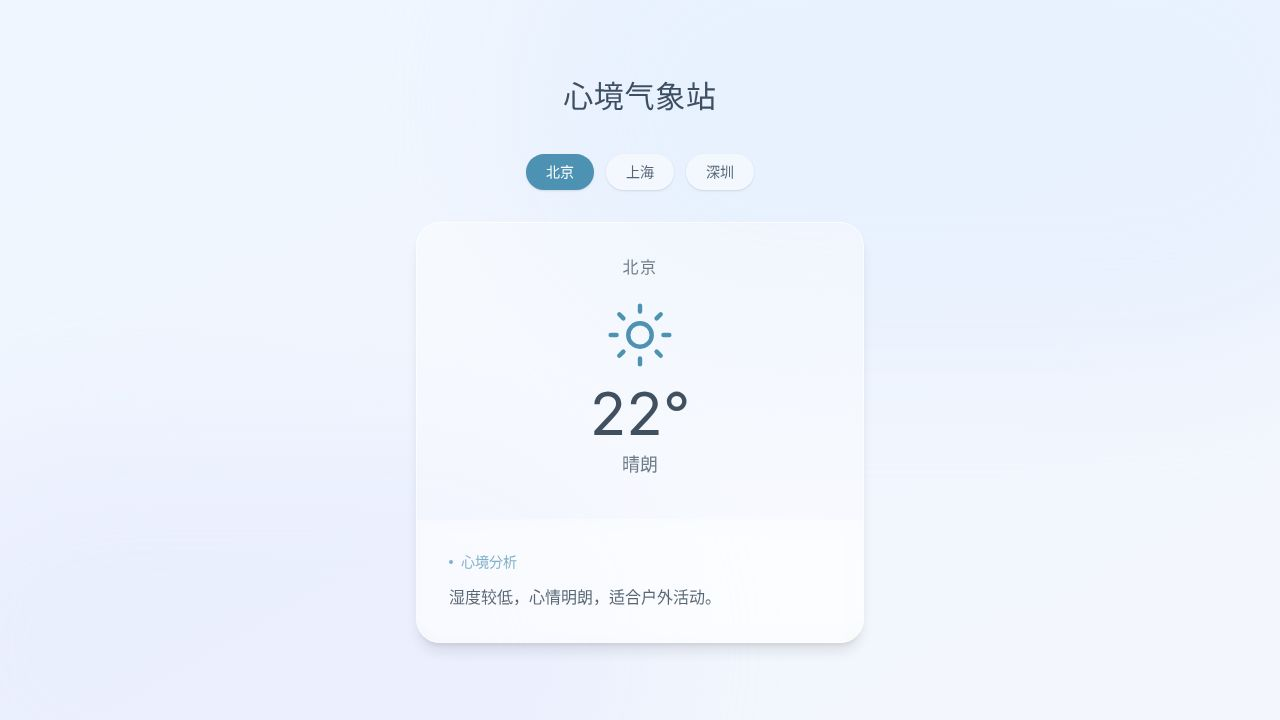
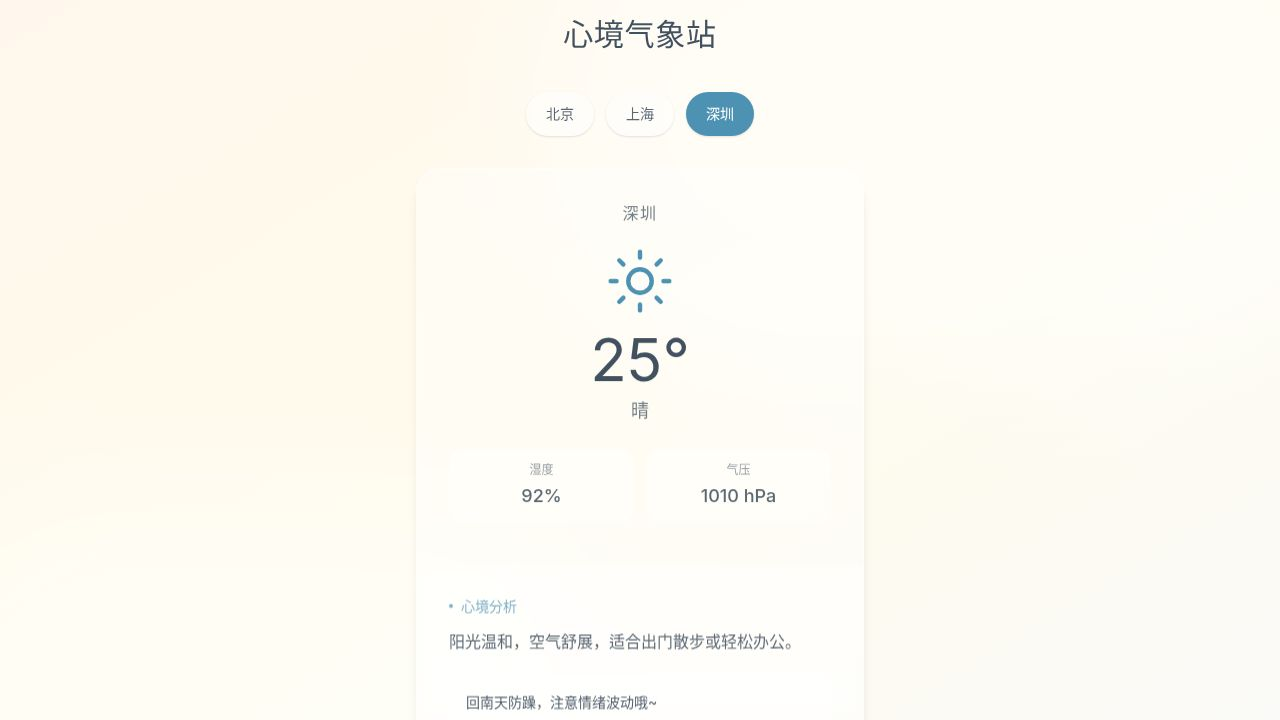
Switch weather data to use mock data for easier local development
Revert to using mock weather data within the `useWeatherData` hook, removing the need for an API key and simplifying local development setup.

Replit-Commit-Author: Agent
Replit-Commit-Session-Id: 7ee3a77c-db98-4346-819c-ddc7e0613c65
Replit-Commit-Checkpoint-Type: full_checkpoint
Replit-Commit-Event-Id: 55f4060f-d80f-4546-9be5-b9dfc7576584
Replit-Commit-Screenshot-Url: https://storage.googleapis.com/screenshot-production-us-central1/3c535aaa-1579-4e03-a277-e6fd453af44c/7ee3a77c-db98-4346-819c-ddc7e0613c65/KclJ2VK
Replit-Helium-Checkpoint-Created: true

diff --git a/artifacts/moodweather/src/hooks/useWeatherData.ts b/artifacts/moodweather/src/hooks/useWeatherData.ts
@@ -9,34 +9,32 @@ export type WeatherData = {
   moodText: string;
 };
 
-type OpenWeatherResponse = {
-  weather?: Array<{
-    main?: string;
-    description?: string;
-  }>;
-  main?: {
-    temp?: number;
-    humidity?: number;
-    pressure?: number;
-  };
-  message?: string;
+const mockWeatherData: Record<string, WeatherData> = {
+  北京: {
+    temp: 22,
+    humidity: 34,
+    pressure: 998,
+    weather: "晴",
+    description: "晴朗",
+    moodText: "湿度较低，心情明朗，适合户外活动。",
+  },
+  上海: {
+    temp: 19,
+    humidity: 78,
+    pressure: 1008,
+    weather: "雨",
+    description: "小雨",
+    moodText: "雨声轻落，适合放慢节奏，整理思绪。",
+  },
+  深圳: {
+    temp: 25,
+    humidity: 92,
+    pressure: 1010,
+    weather: "晴",
+    description: "晴",
+    moodText: "阳光温和，空气舒展，适合出门散步或轻松办公。",
+  },
 };
-
-function createMoodText(data: Pick<WeatherData, "humidity" | "pressure" | "weather">) {
-  if (data.humidity > 85) {
-    return "空气湿度偏高，适合放慢节奏，给自己留一点缓冲。";
-  }
-
-  if (data.weather.includes("雨") || data.weather.includes("阴")) {
-    return "光线较柔，适合降低消耗，处理轻量任务。";
-  }
-
-  if (data.pressure < 1000) {
-    return "气压偏低，身心可能更敏感，适合减少外界干扰。";
-  }
-
-  return "天气状态较平稳，适合保持当前节奏，安排户外或专注活动。";
-}
 
 export function useWeatherData(cityName: string) {
   const [data, setData] = useState<WeatherData | null>(null);
@@ -44,68 +42,24 @@ export function useWeatherData(cityName: string) {
   const [error, setError] = useState<string | null>(null);
 
   useEffect(() => {
-    const apiKey = import.meta.env.VITE_WEATHER_API_KEY;
-    const controller = new AbortController();
+    let cancelled = false;
 
-    async function fetchWeather() {
-      if (!apiKey) {
-        setData(null);
-        setError("缺少 VITE_WEATHER_API_KEY，请先配置天气 API Key。");
-        setIsLoading(false);
+    setIsLoading(true);
+    setError(null);
+
+    const timer = window.setTimeout(() => {
+      if (cancelled) {
         return;
       }
 
-      setIsLoading(true);
-      setError(null);
+      setData(mockWeatherData[cityName] ?? mockWeatherData["深圳"]);
+      setIsLoading(false);
+    }, 260);
 
-      try {
-        const params = new URLSearchParams({
-          q: `${cityName},CN`,
-          appid: apiKey,
-          units: "metric",
-          lang: "zh_cn",
-        });
-        const response = await fetch(
-          `https://api.openweathermap.org/data/2.5/weather?${params.toString()}`,
-          { signal: controller.signal },
-        );
-        const result = (await response.json()) as OpenWeatherResponse;
-
-        if (!response.ok) {
-          throw new Error(result.message || "天气数据获取失败。");
-        }
-
-        const weather = result.weather?.[0]?.description || result.weather?.[0]?.main || "未知";
-        const temp = Math.round(result.main?.temp ?? 0);
-        const humidity = result.main?.humidity ?? 0;
-        const pressure = result.main?.pressure ?? 0;
-        const weatherData = {
-          temp,
-          humidity,
-          pressure,
-          weather,
-          description: weather,
-          moodText: createMoodText({ humidity, pressure, weather }),
-        };
-
-        setData(weatherData);
-      } catch (err) {
-        if (err instanceof DOMException && err.name === "AbortError") {
-          return;
-        }
-
-        setData(null);
-        setError(err instanceof Error ? err.message : "天气数据获取失败。");
-      } finally {
-        if (!controller.signal.aborted) {
-          setIsLoading(false);
-        }
-      }
-    }
-
-    fetchWeather();
-
-    return () => controller.abort();
+    return () => {
+      cancelled = true;
+      window.clearTimeout(timer);
+    };
   }, [cityName]);
 
   return { data, isLoading, error };

diff --git a/replit.md b/replit.md
@@ -18,7 +18,7 @@ pnpm workspace monorepo using TypeScript. Each package manages its own dependenc
 
 ## Artifacts
 
-- **MoodWeather** (`artifacts/moodweather`) — React + Vite + Tailwind web app at `/`. The app shows a Chinese “心境气象站” homepage with city buttons, a frosted-glass weather card, weather-based mood advice, OpenWeatherMap-powered realtime weather via `VITE_WEATHER_API_KEY`, and Framer Motion transitions for city/data changes.
+- **MoodWeather** (`artifacts/moodweather`) — React + Vite + Tailwind web app at `/`. The app shows a Chinese “心境气象站” homepage with city buttons, a frosted-glass weather card, simulated weather data, weather-based mood advice, and Framer Motion transitions for city/data changes.
 
 ## Key Commands
 
@@ -29,9 +29,9 @@ pnpm workspace monorepo using TypeScript. Each package manages its own dependenc
 - `pnpm --filter @workspace/api-server run dev` — run API server locally
 - `pnpm --filter @workspace/moodweather run dev` — run MoodWeather locally through its configured service
 
-## MoodWeather Configuration
+## MoodWeather Data
 
-- Development weather API key is read from `artifacts/moodweather/.env.local` as `VITE_WEATHER_API_KEY`.
-- The key is intentionally not committed or hardcoded.
+- Weather data is currently simulated inside `artifacts/moodweather/src/hooks/useWeatherData.ts`.
+- The hook keeps the same loading/data/error shape so it can be switched back to a real API later.
 
 See the `pnpm-workspace` skill for workspace structure, TypeScript setup, and package details.